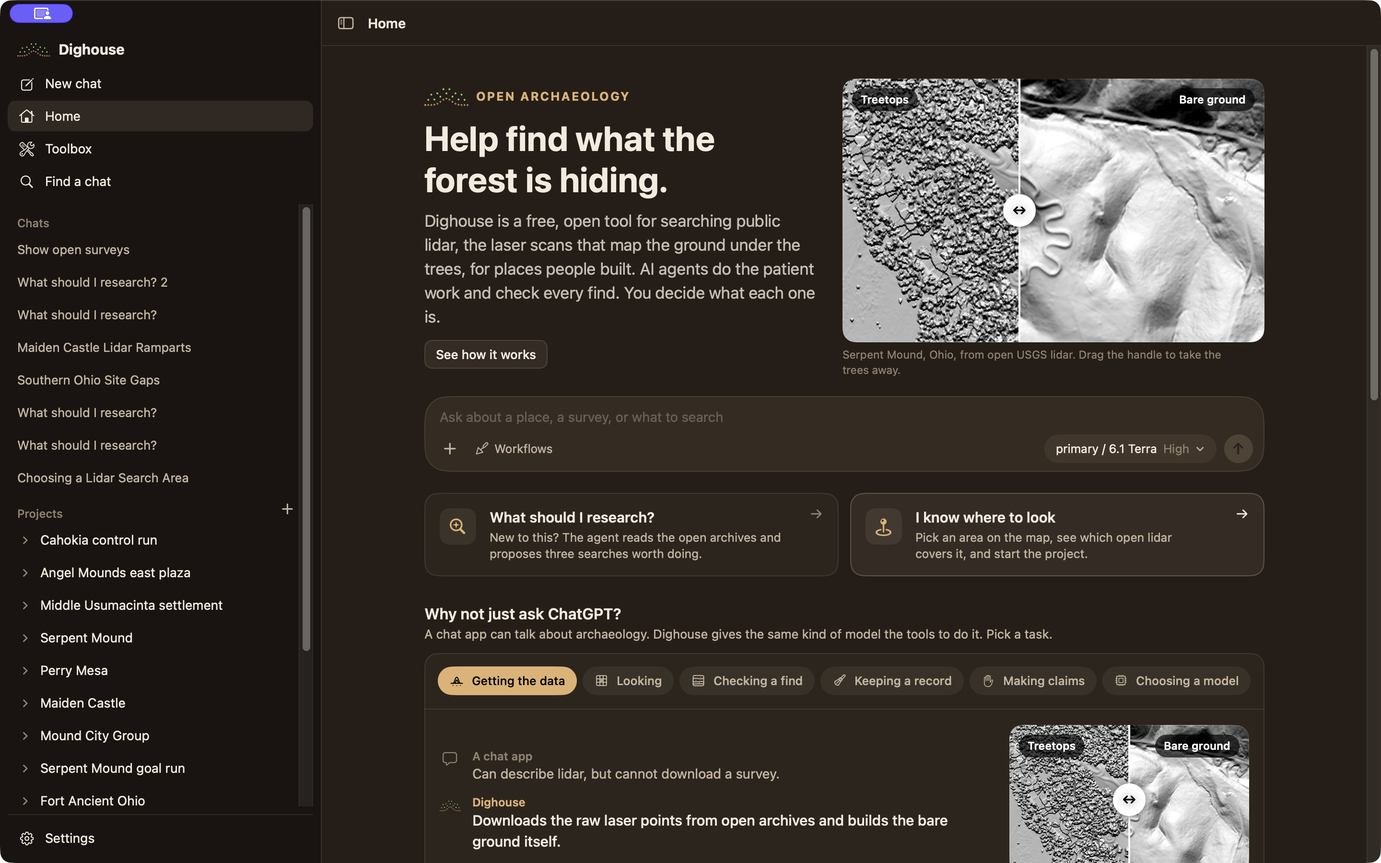
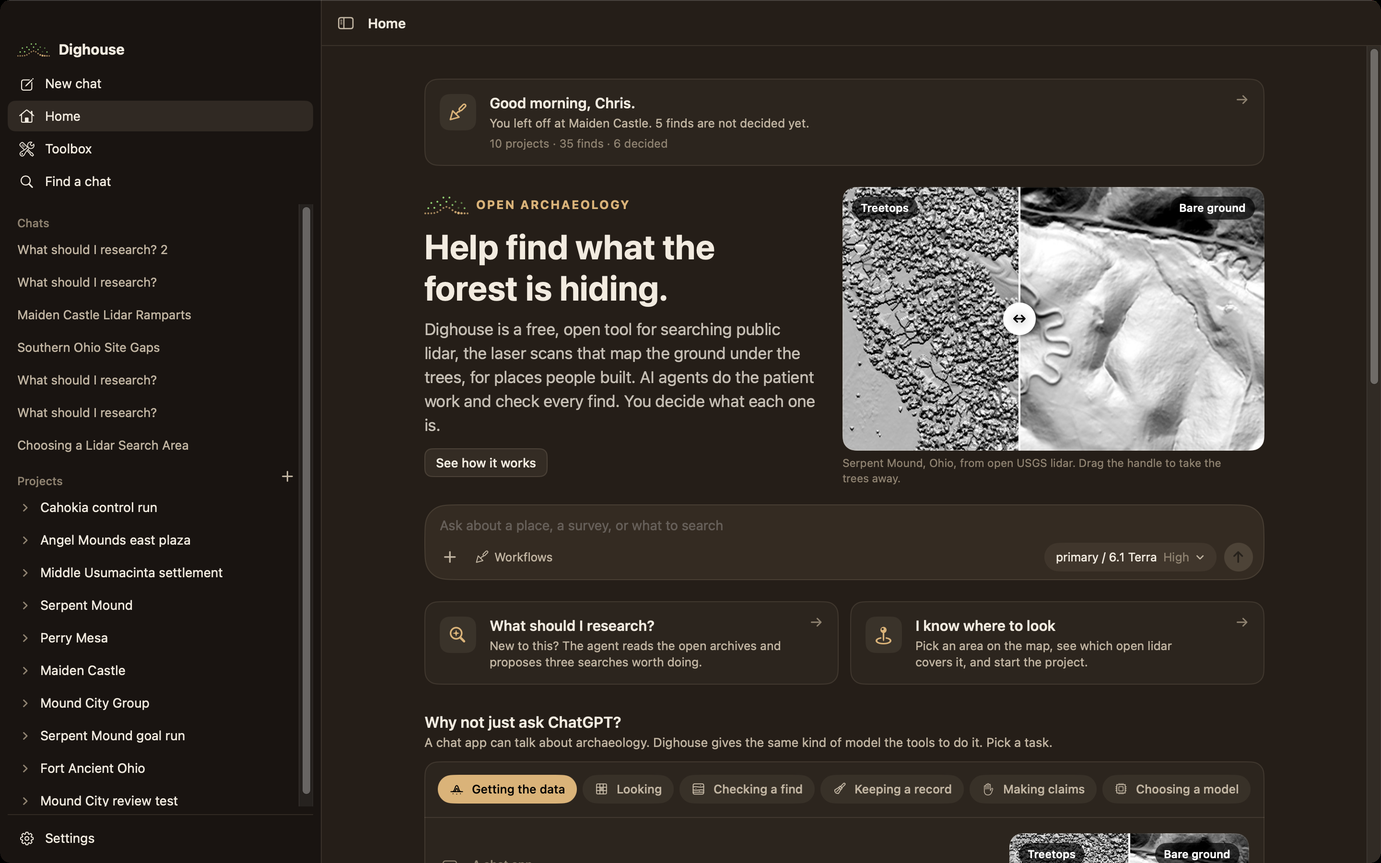
README for a public release, a roadmap with the open astronomy field, and HANDOFF brought up to date (#39)

diff --git a/README.md b/README.md
@@ -5,49 +5,47 @@
 <h1 align="center">Dighouse</h1>
 
 <p align="center">
-  <strong>Open archaeology on your Mac.</strong><br>
-  AI agents search public lidar for places people built, check every find, and keep a record an archaeologist can trust. You make the calls.
+  <strong>Agentic archaeology on your Mac.</strong><br>
+  AI agents search public lidar for places people built, check every find, and keep a record an archaeologist can trust.<br>
+  You decide what each find is.
 </p>
 
 <p align="center">
   <img alt="macOS 14 or later" src="https://img.shields.io/badge/macOS-14%2B-0A84FF?logo=apple">
   <img alt="Native SwiftUI app" src="https://img.shields.io/badge/app-SwiftUI-FF9F0A?logo=swift&logoColor=white">
-  <img alt="Python 3.11 or later" src="https://img.shields.io/badge/tools-Python%203.11%2B-3776AB?logo=python&logoColor=white">
   <img alt="33 tools over the Model Context Protocol" src="https://img.shields.io/badge/MCP-33%20tools-8B5E3C">
-  <img alt="Runs the Codex engine" src="https://img.shields.io/badge/engine-Codex%20app--server-5E5CE6">
-  <img alt="Any model through OpenCodex" src="https://img.shields.io/badge/models-any%2C%20via%20OpenCodex-5E5CE6">
   <img alt="Open lidar from eight countries" src="https://img.shields.io/badge/open%20lidar-8%20countries-6B8E23">
   <img alt="No account or key needed for any data service" src="https://img.shields.io/badge/data%20accounts-none-30D158">
-  <img alt="Locations stay on your Mac" src="https://img.shields.io/badge/locations-stay%20on%20your%20Mac-30D158">
   <a href="LICENSE"><img alt="Apache 2.0 licence" src="https://img.shields.io/badge/licence-Apache%202.0-8E8E93"></a>
-  <img alt="Not notarized yet" src="https://img.shields.io/badge/notarized-not%20yet-FFD60A">
 </p>
 
 <p align="center">
-  <a href="#build-and-run"><b>Build and run</b></a> ·
+  <a href="#get-started"><b>Get started</b></a> ·
   <a href="#how-a-search-works">How a search works</a> ·
-  <a href="#the-tools">The tools</a> ·
+  <a href="#the-tools">Tools</a> ·
   <a href="#open-data">Open data</a> ·
-  <a href="#the-rules-the-tools-enforce">Rules</a> ·
-  <a href="#status">Status</a>
+  <a href="#rules-the-tools-enforce">Rules</a> ·
+  <a href="docs/ROADMAP.md">Roadmap</a>
 </p>
 
-![Angel Mounds, Indiana, opened in Dighouse: on the left the project's overview says what happens next and shows the search so far; on the right five finds are marked on the bare-ground map](docs/images/angel-mounds-run.png)
+![Angel Mounds, Indiana, opened in Dighouse: the project overview says what happens next and shows the search so far; five finds are marked on the bare-ground map](docs/images/angel-mounds-run.png)
 
-<sub>A search at Angel Mounds, Indiana, from open USGS lidar. The agent looked at 9 tiles, marked 5 finds, cut a slice through each, got a second model's opinion and searched what is published. The overview says what happens next in plain words, and the research record keeps everything looked at and read.</sub>
+<sub>A search at Angel Mounds, Indiana, from open USGS lidar: 9 tiles looked at, 5 finds marked, each one sliced, given a second model's opinion and searched in the literature.</sub>
 
-**AI disclosure:** Dighouse uses substantial AI assistance for code, tests, documentation, debugging and maintenance. There is no audited percentage of AI-generated code; the [run logs](docs/REFINE_LOOP.md#log) state what has actually been checked and how.
+Lidar is a laser scan from an aircraft that maps the ground through gaps in the trees, and a great deal of it is public. Most of it has never been searched for archaeology. Dighouse gives an AI model the tools to fetch that data, take the trees away, look over every square of ground, and check each thing it marks, then hands the decision to a person.
 
-> [!IMPORTANT]
-> **Dighouse is not a download yet.** You build it from source on your own Mac. The build is signed for local use only and is not notarized. The tools work today, in the app or in any harness that speaks the Model Context Protocol.
+> [!NOTE]
+> Dighouse builds from source today. The app is signed for local use and is not yet notarized. The archaeology tools also run on their own in Codex or any harness that speaks the Model Context Protocol.
 
-## Why
+## Why it exists
 
 In November 2026 Pietro Miotti let AI agents search about 1,200 km² of NASA lidar overnight, and they marked a Maya site. It turned out to be already published. Finding things was cheap; checking them was the part that failed.
 
-Dighouse is built around the check. Every find gets a slice through the raw laser points, a second opinion from a different model, a look at open maps for roads and buildings, and a search of what is published. The tools refuse a status the evidence does not support, and nothing is ever called new. A person makes the last call.
+Dighouse is built around the check. Every find gets a slice through the raw laser points, a second opinion from a different model, a look at open maps for roads and buildings, and a search of what is published. The tools refuse a status the evidence does not support, and nothing is ever called new.
 
-A dig house is the building where an excavation team lives, works and keeps its records. The app plays the same role for a search.
+A chat app can talk about archaeology. It cannot download a survey, look at every tile of an area, cut a slice through the points, or keep a record that someone else can pick up. Dighouse gives the same kind of model those abilities, with rules that hold whichever model is running.
+
+*A dig house is the building where an excavation team lives, works and keeps its records. The app plays the same role for a search.*
 
 ## How a search works
 
@@ -55,54 +53,50 @@ A dig house is the building where an excavation team lives, works and keeps its 
   <img src="docs/images/treetops-to-ground.gif" alt="Serpent Mound, Ohio: a handle sweeps across the picture, taking the trees away to show the winding mound on the bare ground beneath" width="720">
 </p>
 
-<p align="center"><sub>Serpent Mound, Ohio, from open USGS lidar. Lidar sees through the gaps in the trees; Dighouse keeps only the ground returns.</sub></p>
+<p align="center"><sub>Serpent Mound, Ohio, from open USGS lidar. Dighouse keeps only the laser returns that reached the ground.</sub></p>
 
-1. **Choose where to look.** Ask "What should I research?" and the agent compares open lidar with what is already on record and proposes three searches. Or pick an area on a map and see which open lidar covers it.
-2. **Bare ground.** The tools download the raw laser points (or a national ground model), keep the ones that reached the ground, and draw the bare ground in four views.
-3. **Look.** The ground is cut into squares called tiles and agents look at every one, in two views. A tile with too little ground data is marked unreadable, never "nothing found".
-4. **Check.** Each find gets a slice, which is a cut straight down through the laser points that shows whether the shape is in the ground or only in the treetops. It also gets a second opinion from a different model, and a look at open maps for roads, buildings and sites already mapped.
-5. **Read.** The agent searches books, papers and Open Context, opens what it can, and logs every source as read, could not open, or not relevant. Pages that refuse a program can be opened by you in the Sources tab and handed to the agent.
-6. **Record.** Every find is a Markdown page with its pictures, measurements, checks and sources. You decide what it is, and your name and reason go into the record.
+1. **Choose where to look.** Ask "What should I research?" and the agent weighs where lidar is open against what is already on record, then proposes three searches. Or draw an area on a map and see which open lidar covers it.
+2. **Take the trees away.** The tools download the raw laser points, or a national ground model, and keep the ground.
+3. **Look at every tile.** The ground is cut into squares called tiles, and agents look at each one in two renderings. A tile with too little ground data is marked unreadable, never "nothing found".
+4. **Check every find.** A slice straight down through the laser points shows whether a shape is in the ground or only in the treetops. A second, different model gives its own opinion without seeing the first. Open maps are checked for roads, buildings and sites already mapped.
+5. **Search what is published.** The agent searches books, papers and site records, opens what it can, and logs every source as read, could not open, or not relevant.
+6. **Keep the record, and you decide.** Every find is a Markdown page with its pictures, measurements, checks and sources. You decide what it is, and your name and reason go into the record.
 
-You can take the stages one at a time, or press **Find and report back** and get all of them in one go, ending with a report of 400 words at most.
+Take the stages one at a time, or press **Find and report back** and the agent carries the search to its end, then returns a report of at most 400 words with your decisions listed first.
 
-## The app
-
-`app/` holds Dighouse for macOS: a native SwiftUI app that runs the [Codex](https://github.com/openai/codex) engine with the archaeology tools attached. If the [OpenCodex](https://github.com/lidge-jun/opencodex) router is running, every model in its roster appears in the model menu, so a different maker's model can give the second opinion.
+## A look at the app
 
 <table>
   <tr>
-    <td width="50%"><img src="docs/images/home.png" alt="Home: drag between treetops and bare ground at Serpent Mound, a message box, and two ways in"><br><sub><b>Home.</b> Drag between the treetops and the bare ground, type a place to search it in one press, or take one of two ways in.</sub></td>
-    <td width="50%"><img src="docs/images/new-project.png" alt="New project at Mound City Group: name, question, a search area drawn on the map, and the open lidar that covers it"><br><sub><b>New project.</b> Place the search area on the map and see which open lidar covers it before you start.</sub></td>
+    <td width="50%"><img src="docs/images/home.png" alt="Home: a greeting with the last project and what it waits for, the treetops-to-ground picture, a message box and two ways in"><br><sub><b>Home.</b> Picks up where you left off, and starts a search from a place name in one press.</sub></td>
+    <td width="50%"><img src="docs/images/new-project.png" alt="New project at Mound City Group: name, question, a search area drawn on the map, and the open lidar that covers it"><br><sub><b>New project.</b> Place the area on the map and see which open lidar covers it before you start.</sub></td>
   </tr>
   <tr>
-    <td width="50%"><img src="docs/images/maiden-castle.png" alt="Maiden Castle in England from Environment Agency lidar: the project overview with what happens next beside the tiled map of the ramparts and five finds"><br><sub><b>A project.</b> Maiden Castle from the Environment Agency's 1 m ground model: 42 tiles looked at and five finds on the ramparts and entrances. The card at the top says what the agent will do next, why, and what follows.</sub></td>
-    <td width="50%"><img src="docs/images/record.png" alt="A find's record at Angel Mounds with its relief, its slice, and the checks: in the ground, second opinion, open maps, what is published"><br><sub><b>Records.</b> Each find with its relief, its slice and every check. The decision is yours.</sub></td>
+    <td width="50%"><img src="docs/images/maiden-castle.png" alt="Maiden Castle in England from Environment Agency lidar: the project overview with what happens next beside the tiled map of the ramparts and five finds"><br><sub><b>A project.</b> Maiden Castle from England's 1 m ground model. The card at the top says what the agent does next, why, and what follows.</sub></td>
+    <td width="50%"><img src="docs/images/record.png" alt="A find's record at Angel Mounds with its relief, its slice, and the checks: in the ground, second opinion, open maps, what is published"><br><sub><b>A record.</b> Each find with its relief, its slice and every check.</sub></td>
   </tr>
   <tr>
-    <td width="50%"><img src="docs/images/toolbox.png" alt="The Toolbox on the Check stage of a real search at Cahokia: a line dragged across Monks Mound and the slice it cuts drawn beside it"><br><sub><b>Toolbox.</b> One real search at Cahokia in six stages, each a picture to press or drag. Here a line dragged across Monks Mound draws its slice.</sub></td>
-    <td width="50%"><img src="docs/images/open-data.png" alt="The Open data tab: a map of the world showing where open lidar reaches, and a tile for each service with its status"><br><sub><b>Open data.</b> Where each kind of data reaches, and a tile for every service the tools read. Press one for a picture made from its data and something to try.</sub></td>
+    <td width="50%"><img src="docs/images/toolbox.png" alt="The Toolbox on the Check stage of a real search at Cahokia: a line dragged across Monks Mound and the slice it cuts drawn beside it"><br><sub><b>Toolbox.</b> One real search at Cahokia in six stages, each a picture to press or drag. Here a line across Monks Mound draws its slice.</sub></td>
+    <td width="50%"><img src="docs/images/open-data.png" alt="The Open data tab: a map of the world showing where open lidar reaches, and a tile for each service with its status"><br><sub><b>Open data.</b> Where each kind of data reaches, and a page for every service the tools read.</sub></td>
   </tr>
   <tr>
-    <td width="50%"><img src="docs/images/workflows.png" alt="The Workflows tab: three lanes for the agent, a second model and you, with the eight parts of a search in order"><br><sub><b>Workflows.</b> Who does each part of a search, where the open project stands, and a Run button for each.</sub></td>
-    <td width="50%"><img src="docs/images/how-it-runs.png" alt="Settings, How it runs: you, the model, the engine and the tools in a row, each with its state and one button"><br><sub><b>How it runs.</b> The model, the engine and the tools, each with its state now and the one thing to do about it.</sub></td>
+    <td width="50%"><img src="docs/images/workflows.png" alt="The Workflows tab: three lanes for the agent, a second model and you, with the eight parts of a search in order"><br><sub><b>Workflows.</b> Who does each part of a search, and where the open project stands.</sub></td>
+    <td width="50%"><img src="docs/images/how-it-runs.png" alt="Settings, How it runs: you, the model, the engine and the tools in a row, each with its state and one button"><br><sub><b>How it runs.</b> You, the model, the engine and the tools, each with its state now.</sub></td>
   </tr>
 </table>
 
-- **A first project in ten minutes.** "Start your first project" on Home is a tutorial at Serpent Mound: six steps, one sentence each, with the control to press ringed. Leave it and it resumes at the same step.
-- **Find and report back.** Type a place on Home and press one button, or press it on a project's overview, or type /investigate. The agent runs the whole search as a goal, Dighouse asks a second model about each find, and a report opens with the decisions that wait for you first. The top bar shows the stage it is on and a Stop.
-- **A project that guides.** The overview says what the agent will do next, why, and what follows, in words that need no archaeology. The main button carries the search to its end; one step alone is the smaller button. When finds wait for you it says "Your turn".
-- **One word for one thing.** A shape the agent marked is a find. A cut through the laser points is a slice. The agent looks at tiles, and another model gives a second opinion. The app, the records and the reports all use these words.
-- **Chat** works with or without a project. It shows the agent's plan, each step it takes, helper agents, and long runs folded into one line. One button opens the model list, with recent models first and the thinking effort above it, named and described as the model list has it. The message box takes images, video, audio and other files.
-- **Like Codex:** type / for commands (/investigate, /look, /check, /review, /undo, /fork, /compact, /goal and more) and @ to point at a find, tile, source or file. ⌘K jumps to any project, chat, find, page or command. When something fails, the chat says what happened and offers Try again or another model.
-- **A workspace beside the chat:** the map of tiles and finds (four views, and a line you draw to cut a slice), the records, the notes, the sources with a browser to open them, and the project's data. The review goes through the finds one at a time, with the agent's suggested decision filled in.
-- **The Toolbox** has four tabs: one real search to step through, the workflows as a picture of who does what, the open data on a map with a page for each service, and other tools the agent can use.
-- **Its own look.** Six drawings made in SwiftUI (a trowel, a brush, a sieve, soil layers, a mound and a survey grid) mark the stages, the workflows and the places with nothing in them yet. While the agent works, a trowel scrapes along a line of soil; it holds still with Reduce Motion. Three colour looks; Earth is the default.
-- **Settings** is seven short pages: your name and folders, the look, the two models, how it runs, every tool in a searchable list, what data goes where, and the versions.
+**What it does well**
 
-## Build and run
+- **Guides a newcomer.** A ten-minute first project at Serpent Mound, one step at a time. Each project's overview says in plain words what happens next, and when finds wait on you it says so by name.
+- **Uses the words of the work, simply.** A shape the agent marked is a *find*, a cut through the points is a *slice*, and another model gives a *second opinion*. The app, the records and the reports all say the same.
+- **Works like an agent app.** A chat that shows the agent's plan and each step, helper agents on long runs, `/` commands, `@` to point at a find or a file, ⌘K to jump anywhere, and images, video, audio or any other file attached to a message.
+- **Puts the evidence beside the chat.** A map of tiles and finds with four renderings and a line you draw to cut a slice, the records, the notes, the sources with a browser to open them, and the project's data. A review goes through the finds one at a time with the agent's suggestion filled in.
+- **Runs any model.** Through the [OpenCodex](https://github.com/lidge-jun/opencodex) router, every model on the Mac appears in one menu, so a different maker's model can give the second opinion.
+- **Feels like its own place.** Hand-drawn SwiftUI marks for each stage (a trowel, a brush, a sieve, soil layers, a mound, a survey grid), three colour looks, five text sizes with ⌘+ and ⌘−, and quiet movement that stops when the Mac is set to reduce motion.
 
-You need an Apple silicon Mac with macOS 14 or later, [Codex](https://github.com/openai/codex) signed in, and [uv](https://docs.astral.sh/uv/). Dighouse uses the newest copy of Codex it finds on the Mac, including the one inside the Codex app, because providers refuse their newer models to an older engine. It was last checked with 0.167; with 0.146 the model list loads but GPT-6.1 Terra is refused.
+## Get started
+
+You need an Apple silicon Mac with macOS 14 or later, [Codex](https://github.com/openai/codex) signed in, and [uv](https://docs.astral.sh/uv/).
 
 ~~~sh
 git clone https://github.com/chrissotraidis/dighouse.git
@@ -111,11 +105,9 @@ cd dighouse/app
 open build/Dighouse.app
 ~~~
 
-The first launch walks through setup and builds the tools' Python environment by itself, which takes about a minute.
+The first launch walks through setup and builds the tools' Python environment, which takes about a minute. Dighouse runs the newest copy of Codex it finds on the Mac, including the one inside the Codex app, because providers refuse newer models to an older engine. It was last checked with Codex 0.167.
 
-### Use the tools without the app
-
-The tools are a Model Context Protocol server, so they also work in Codex or any other harness that speaks MCP.
+**Use the tools without the app.** They are a Model Context Protocol server:
 
 ~~~sh
 cd dighouse
@@ -125,7 +117,7 @@ codex mcp add dighouse -- uv run --directory "$PWD" dighouse-tools
 
 Then start a chat in an empty folder and ask the agent to follow [skills/dighouse/SKILL.md](skills/dighouse/SKILL.md).
 
-### Tests
+**Tests.**
 
 ~~~sh
 uv run pytest            # offline, on a synthetic survey (13 tests)
@@ -138,24 +130,24 @@ uv run pytest -m live    # the same chain against the real data services (8 test
 |---|---|
 | Choose where to look | `find_place`, `open_surveys`, `survey_area`, `find_gaps`, `open_resources`, `search_records` |
 | Set up | `init_project` |
-| Find and fetch open lidar, or use your own | `find_data`, `fetch_terrain`, `import_terrain` |
-| Look at the bare ground | `view_terrain`, `make_tiles`, `render_tiles`, `next_tiles`, `view_tile` |
+| Fetch open lidar, or use your own | `find_data`, `fetch_terrain`, `import_terrain` |
+| Draw the bare ground | `view_terrain`, `make_tiles`, `render_tiles`, `next_tiles`, `view_tile` |
 | Look at every tile | `record_verdict`, `flag_candidate` |
 | Check each find | `cut_section`, `second_look`, `check_modern`, `add_control` |
 | Search what is published | `search_literature`, `read_source`, `log_source` |
-| Records and run | `add_evidence`, `suggest_decision`, `set_status`, `list_candidates`, `run_status`, `write_summary`, `write_report`, `document_project`, `export_finds` |
+| Records and runs | `add_evidence`, `suggest_decision`, `set_status`, `list_candidates`, `run_status`, `write_summary`, `write_report`, `document_project`, `export_finds` |
 
-The ground is drawn in four views: `composite`, `hillshade`, `local_relief` and `sky_view`. Tool names keep the project's older words (candidate, section, second look); the app and the records say find, slice and second opinion. `export_finds` writes the finds as GeoJSON for QGIS, ArcGIS or Google Earth, under `private/` because it holds coordinates.
+The ground is drawn as `composite`, `hillshade`, `local_relief` and `sky_view`. Tool names keep the project's older words (candidate, section, second look). `export_finds` writes GeoJSON for QGIS, ArcGIS or Google Earth, under `private/` because it holds coordinates.
 
 ## Open data
 
-Everything Dighouse searches is public, and none of it needs an account or a key.
+Everything Dighouse reads is public, and none of it needs an account or a key.
 
 | Service | What Dighouse reads |
 |---|---|
 | [OpenTopography](https://portal.opentopography.org/datasets) | The catalog of lidar surveys, including ones flown for archaeology, and their raw points |
 | [USGS 3DEP](https://registry.opendata.aws/usgs-lidar/) | Raw lidar points for most of the United States |
-| [Environment Agency](https://environment.data.gov.uk/survey) | England's 1 m lidar ground model |
+| [Environment Agency](https://environment.data.gov.uk/survey) | England's 1 m ground model |
 | [AHN](https://www.ahn.nl/) | The Netherlands' 0.5 m ground model |
 | [IGN LiDAR HD](https://geoservices.ign.fr/lidarhd) | France's 0.5 m ground model |
 | [Digitaal Vlaanderen](https://www.vlaanderen.be/digitaal-vlaanderen) | Flanders' 1 m ground model |
@@ -167,21 +159,20 @@ Everything Dighouse searches is public, and none of it needs an account or a key
 | [Pleiades](https://pleiades.stoa.org/) | About 35,000 located ancient places |
 | [National Register of Historic Places](https://www.nps.gov/subjects/nationalregister/) | Historic places in the United States |
 | [Open Context](https://opencontext.org/) | Published excavation and survey records |
-| [OpenAlex](https://openalex.org/) | The literature search. Without a key it allows about 100 searches a day for each network address |
-| [Crossref](https://www.crossref.org/) | The literature search, when OpenAlex turns a request away |
+| [OpenAlex](https://openalex.org/) and [Crossref](https://www.crossref.org/) | The literature search. Without a key, OpenAlex allows about 100 searches a day for each network address, and Crossref takes over past that |
 
-Historic aerial photographs, declassified CORONA imagery, and the lidar of Denmark, Finland and Sweden need an account or a key, so the tools name them as out of reach. Scotland, Wales, Slovenia, Spain, Poland and Luxembourg were tried in November 2026 and are not read yet; the Open data tab says why for each.
+Historic aerial photographs, declassified CORONA imagery, and the lidar of Denmark, Finland and Sweden need an account or a key, so the tools name them as out of reach. Scotland, Wales, Slovenia, Spain, Poland and Luxembourg were tried and are not read yet; the Open data tab says why for each.
 
-## The rules the tools enforce
+## Rules the tools enforce
 
-These are built into the tools, so they hold whichever model is running.
+These live in the tools, so they hold whichever model is running.
 
 - A tile with too little ground data is marked unreadable and cannot be given a verdict.
 - A find cannot be marked as in the ground without a slice that shows it there.
 - The second opinion must come from a different model than the one that marked the find.
-- A find cannot be marked as having no match in what is published until a slice, a second opinion, a map check and at least one read source are on its record, and a named person makes that call. Sources that could not be opened are written into the decision.
+- A find cannot be marked as having no match in what is published until a slice, a second opinion, a map check and at least one read source are on its record, and a named person makes that call.
 - Nothing is ever called new. A record says how many sources were read and that none matched.
-- Locations are stored only under `private/` in the project folder. Records, notes and run summaries carry no coordinates, because published coordinates invite looting.
+- Locations are stored only under `private/`. Records, notes and run summaries carry no coordinates, because published coordinates invite looting.
 
 ## A project is a folder
 
@@ -191,45 +182,53 @@ my-project/
   PROJECT.md      the question and the rules agents follow
   METHODOLOGY.md  how the search and the record are kept, and lessons learned here
   candidates/     one Markdown record per find, with its pictures
-  notes/          a dated log the tools write as work happens, run summaries, and record.json (what was looked at, without locations)
+  notes/          a dated log, run summaries, and record.json (what was looked at, without locations)
   sources/        what was read, what could not be opened, and pages you saved
   reports/        the search report, and drafts for the heritage authority
   data/           downloaded points, ground models, tiles (not versioned)
   private/        locations, exports and run state (not versioned)
 ~~~
 
-Markdown is the record of truth, so a project works offline and can be shared or handed to an archaeologist like any folder. Each project keeps its own git history, which leaves out data/ and private/.
+Markdown is the record of truth, so a project works offline and can be handed to an archaeologist like any folder. Each project keeps its own git history without `data/` or `private/`. Dighouse rebuilds `RESEARCH.md` whenever a run ends, a person decides or the project is opened, and the agent reads it before it starts, so work adds up instead of starting over.
 
-Every project documents itself the same way, so work adds up. Dighouse rebuilds RESEARCH.md from the project's files whenever a run ends, a person decides or the project is opened. It opens with a few plain lines for a newcomer (what the project asks, how far it got, a link to each find, and how to continue), then lists:
-
-- the data used, and every tile looked at with its verdict (including the ones that showed nothing);
-- every find's checks and decision;
-- every source read or not opened, and every literature search;
-- what is still to do.
-
-The agent reads it before it starts, says what is already done, and builds on it.
-
-**Handing a project over.** File › Export Project makes a zip without data/ or private/, so it holds no locations. The other person unzips it and opens the folder with File › Open Project Folder. The record still lists every tile and what it showed, marked as earlier work, and the overview offers one button, Carry on. The agent does not fetch or look at that ground again unless asked.
+**Handing a project over.** File › Export Project makes a zip without `data/` or `private/`, so it holds no locations. The other person opens the folder, the record shows every tile and what it showed as earlier work, and one button, Carry on, picks up what is left.
 
 ## Checked against known sites
 
 Finding a known site again is the right answer for a test.
 
-- **Cahokia, Illinois.** The control run measured Monks Mound at 27.6 m high in its slice, with 79 ground returns within 5 m of its peak, and the map check found the paths and stairs on it.
-- **Angel Mounds, Indiana.** A run marked five mounds. The largest, C-001, matches the published description of Mound A in the sources the agent read, and a second model agreed it looks built.
-- **Maiden Castle, England.** From the Environment Agency's ground model, the agent described the four lines of rampart and both entrances.
-- **Mound City Group, Ohio.** A run counted 22 mounds inside the enclosure from the lidar; the thesis it read gives 24, and it matched the hollows outside the wall to the published borrow pits.
-- **Serpent Mound, Ohio.** One press of Find and report back looked at 9 tiles, marked the effigy, the conical mound south of it and a pair of curved lines, read three sources, and suggested that the first two are already published (Squier and Davis 1848; Schwarz 2020), in about eight minutes. The decisions were left to a person.
-- **Borre, Norway.** From Kartverket's 1 m ground model, one press of Find and report back looked at 9 tiles, marked the large burial mounds, read the county's page on Borrehaugene and suggested they are already published, in about six minutes.
-- **Perry Mesa, Arizona.** Proposed by "What should I research?", it built into 66 readable tiles at 4 ground returns per square metre.
+| Site | Data | What the run did |
+|---|---|---|
+| Cahokia, Illinois | USGS 3DEP | Measured Monks Mound at 27.6 m in its slice, with 79 ground returns within 5 m of the peak; the map check found the paths and stairs on it |
+| Angel Mounds, Indiana | USGS 3DEP | Marked five mounds; the largest matches the published description of Mound A, and a second model agreed it looks built |
+| Maiden Castle, England | Environment Agency | Described the four lines of rampart and both entrances |
+| Mound City Group, Ohio | USGS 3DEP | Counted 22 mounds inside the enclosure; the thesis it read gives 24 |
+| Serpent Mound, Ohio | USGS 3DEP | One press of Find and report back: 9 tiles, the effigy and the conical mound marked and matched to Squier and Davis (1848) and Schwarz (2020), in about eight minutes |
+| Borre, Norway | Kartverket | One press: 9 tiles, the burial mounds marked and matched to the county's record, in about six minutes |
 
-## Status
+In every case the decision was left to a person.
 
-Working: everything in the tables above, and the macOS app as shown. The run logs say what was checked in the running app and what was not: the newest is [docs/REFINE_LOOP.md](docs/REFINE_LOOP.md), and [docs/POLISH_LOOP.md](docs/POLISH_LOOP.md), [docs/USABILITY_LOOP.md](docs/USABILITY_LOOP.md), [docs/NEXT_LOOP.md](docs/NEXT_LOOP.md) and [docs/GOAL_LOOP.md](docs/GOAL_LOOP.md) came before it.
+## Status and limits
 
-Not built yet: the agent driving a browser of its own, looking at tiles in bulk through the model router, a button that pushes records to Notion, a notarized download, and slices that show treetops for datasets published as ground points only. The design is in [docs/concept.md](docs/concept.md), the state of the work is in [docs/HANDOFF.md](docs/HANDOFF.md), and a study of whether the same method could search open sky data is in [docs/research/open-astronomy.md](docs/research/open-astronomy.md).
+The app and the tools in this README work today, and the run logs say exactly what was checked in the running app and what was not: [REFINE_LOOP.md](docs/REFINE_LOOP.md) is the newest, after [POLISH_LOOP.md](docs/POLISH_LOOP.md), [USABILITY_LOOP.md](docs/USABILITY_LOOP.md), [NEXT_LOOP.md](docs/NEXT_LOOP.md) and [GOAL_LOOP.md](docs/GOAL_LOOP.md).
+
+- There is no notarized download yet.
+- A vision model's eye is the weak point of any search. The checks exist because a model marks shapes that are not there, and misses some that are.
+- Most finds on open lidar turn out to be published already. A record saying so is a result, and it saves the next person the same search.
+- Open services go down and rate-limit. The tools say "could not check" rather than guess.
+
+What comes next, including a second field for open astronomy, is in the [roadmap](docs/ROADMAP.md). The design is in [concept.md](docs/concept.md) and the state of the work in [HANDOFF.md](docs/HANDOFF.md).
+
+## Contributing
+
+Issues and pull requests are welcome. The tools are plain Python in `src/dighouse` with offline tests; the app is SwiftUI in `app/Sources/Dighouse`. A new national ground model is a good first contribution: see how `national.py` reads the seven there now. Please keep the rules above intact, and never put coordinates of a find in an issue.
+
+**AI disclosure.** Dighouse was built with substantial AI assistance for code, tests, documentation and debugging. There is no audited share of AI-written code; the run logs state what was checked and how.
+
+## Acknowledgements
+
+Dighouse stands on open data published by the agencies and projects in the table above, on the [Codex](https://github.com/openai/codex) engine, and on [OpenCodex](https://github.com/lidge-jun/opencodex) for model routing. Lidar is read with [laspy](https://laspy.readthedocs.io/) and [rasterio](https://rasterio.readthedocs.io/).
 
 ## Licence
 
 Apache 2.0, matching the Codex engine.
-

diff --git a/docs/ROADMAP.md b/docs/ROADMAP.md
@@ -1,0 +1,35 @@
+# Roadmap
+
+Where Dighouse goes next, in rough order. Nothing here is promised by a date. What already works is in the [README](../README.md); what was checked, and how, is in the run logs ([REFINE_LOOP.md](REFINE_LOOP.md) is the newest).
+
+## Next, for archaeology
+
+- **A download.** A signed, notarized build, so nobody has to compile the app to try it.
+- **An OpenAlex key in Settings.** Without a key, one network address shares about 100 literature searches a day; a free key lifts that to about 1,000. Dighouse falls back to Crossref today.
+- **More of the world.** Scotland, Wales and Slovenia publish open lidar as files by map sheet. A reader that picks the sheets covering an area, as the Swiss reader already does, would add all three.
+- **Looking at tiles in bulk.** Sending batches of tiles straight to a cheaper vision model through the router, for areas too large for one chat.
+- **A browser of the agent's own,** for sources that refuse a program and today have to be opened by a person in the Sources tab.
+- **Slices with treetops for ground-only data.** Some surveys publish only the ground returns, so a slice can measure a shape but cannot show the trees above it.
+- **Archaeoastronomy.** Two small tools: `horizon_profile` (the height of the horizon in every direction from a point on the ground model) and `alignment_check` (the bearing of a feature's axis, turned into a declination and compared with solstice, equinox and lunar standstill lines). People already do this by hand from lidar. It needs a coarser wide model for the far horizon, and a horizon profile can identify a place, so it is stored under `private/` like any location.
+
+## Later: a second field, open astronomy
+
+The question was whether the same method could search open sky data. The full study, with a source for each claim and a list of what was not checked, is [research/open-astronomy.md](research/open-astronomy.md). In brief:
+
+**The method carries over almost whole.** Cut open data into tiles, have a model look at each one, check every find against less-processed data and known artefacts, test it against what is published, keep a record, and leave the decision to a person.
+
+| Dighouse today | In astronomy |
+|---|---|
+| A tile of bare ground | An image cutout around a target, or one star's light curve |
+| A slice through the laser points | The survey's residual image, single exposures, each colour band alone |
+| Roads and buildings on open maps | Satellite trails, ghosts, diffraction spikes, known asteroids |
+| Site records and the literature | SIMBAD, NED, VizieR, VSX, TNS, then the literature |
+| Locations stay on this Mac | Reversed: an object's coordinates are its identity, so a person submits and the tool only drafts |
+
+**Where it is honest to look.** Survey teams already run trained classifiers over most of the sky, so the chance of adding something is small and sits in a few places. The two best fits are faint companions and tidal features around nearby galaxies in the Legacy Surveys images, and variable stars in ZTF checked against the VSX catalogue. Transients, lenses and moving objects are already crowded with pipelines and volunteers.
+
+**How it would be built.** A second field inside the same app: a separate tool server of about 19 tools (built on astropy, astroquery and lightkurve), a skill file, a workspace view with a cutout grid and a light-curve plot in place of the map, and a tutorial on a known object. The records, the research record, the review, the second opinion and the report are field-neutral and stay as they are. The rules are set per field, because the privacy rule reverses.
+
+**The first step needs no app change:** write the astronomy tool server and run one search in plain Codex, as Dighouse's archaeology tools already run outside the app. If the records hold up, add the field to the Toolbox.
+
+**Open questions before any of it:** whether vision models read faint features in sky images at all, and how each service's terms and rate limits treat a tool that queries them.

diff --git a/docs/HANDOFF.md b/docs/HANDOFF.md
@@ -1,6 +1,6 @@
 # Dighouse handoff
 
-Rewritten 2026-11-14, when the fifth loop (R1 to R7 in [REFINE_LOOP.md](REFINE_LOOP.md)) finished. This file is the prompt for whoever continues the work. Read it, then the Log at the end of REFINE_LOOP.md, which says what was checked and how, and what was not.
+Rewritten 2026-11-14, when the fifth loop (R1 to R7 in [REFINE_LOOP.md](REFINE_LOOP.md)) finished, and brought up to date on 2026-11-15 after the final pass. This file is the prompt for whoever continues the work. Read it, then the Log at the end of REFINE_LOOP.md, which says what was checked and how, and what was not.
 
 ## Your brief
 
@@ -48,11 +48,21 @@ Five loops are finished. There is no sixth plan yet: it should come from Chris's
 - **R5, more of the world.** Flanders, Norway, Estonia and Switzerland in `national.py`. Switzerland is read from swisstopo's file catalog, one file for each square km.
 - **R6, research.** [research/open-astronomy.md](research/open-astronomy.md): whether the same method could search open sky data. No code.
 
+## What the final pass added (2026-11-15)
+
+- **Text size:** five steps (`TextSize` in `Core.swift`), ⌘=, ⌘+ and ⌘− in the View menu, a short note at the top of the window, and the same five in Personalize. The workflow lanes and the Toolbox stage card hold at Largest.
+- **Movement:** `Motion` in `Core.swift` and `.arrives()` in `Controls.swift` (fade and rise, in order); `CardButton` for cards that are buttons. All of it is off with Reduce Motion. Use these for anything new rather than adding another animation.
+- **Personal:** Home's greeting card (`WelcomeBack` in `HomeView.swift`) shows the last project, what it waits for and the person's totals, read from the folders by `ProjectStore.glance`. The overview's card says "Your turn, Chris".
+- **Docs:** the README is written for a public release, and [ROADMAP.md](ROADMAP.md) holds what comes next, including the open astronomy field.
+
 ## How a project documents itself (Chris's priority)
 
 Every project is a folder with a git history (data/ and private/ left out) and one method. RESEARCH.md is its research record, rebuilt by `record.py` when a run ends (with or without a summary), a person decides, a second opinion comes back, or the project is opened. METHODOLOGY.md says how the work and the record are kept, and the agent reads both first. Keep this method when changing anything that writes into a project: whatever a run looks at or reads should end up in the record, and nothing with a location may go into notes/, reports/ or the record.
 
 ## Waiting on Chris
+
+- **The promotional video** (30 to 40 seconds, made from real app footage) waits for his pass.
+- **Going public.** The README reads as if the repository were public. Making it public, tagging a release, and a notarized download are his decisions.
 
 - **Use this build and say what is still rough.** Loop 5 answered his list item by item (the Log has a picture for each), but his eye has not been over the result.
 - **The second-opinion model is being refused.** On 2026-11-14 the provider of AG · Gemini 3.8 Flash answered every request with 403, "This service has been disabled in this account for violation of Terms of Service", and told the account holder to appeal. It worked that afternoon. Only Chris can look at that account or choose another second model. Until then no second opinion can be had; Dighouse says so on the record and carries on.

diff --git a/docs/REFINE_LOOP.md b/docs/REFINE_LOOP.md
@@ -214,3 +214,4 @@ Chris asked for one more pass: text that grows and shrinks with ⌘+ and ⌘−,
 - **Not checked:** a real pointer's hover (the test tools move the pointer themselves), and Reduce Motion switched on in System Settings, which was left alone.
 - `uv run pytest -q`: 13 passed.
 
+- **Docs:** the README is rewritten for a public release (what it is, why, how a search works, getting started, tools, data, rules, known sites, limits, contributing), with a new Home picture. [ROADMAP.md](ROADMAP.md) holds what comes next and summarizes the open astronomy study as a possible second field. HANDOFF and concept link to it. Nothing was made public or released.

diff --git a/docs/concept.md b/docs/concept.md
@@ -156,3 +156,4 @@ Not every model in a roster works, or works at every thinking effort. The app do
 - **Controls.** Published site locations are not open for every region, so some projects will run without controls.
 - **Name.** Dighouse passed checks of domains, GitHub, package registries and the App Store. A trademark search has not been done.
 
+What comes next, including a second field for open astronomy, is in [ROADMAP.md](ROADMAP.md).
